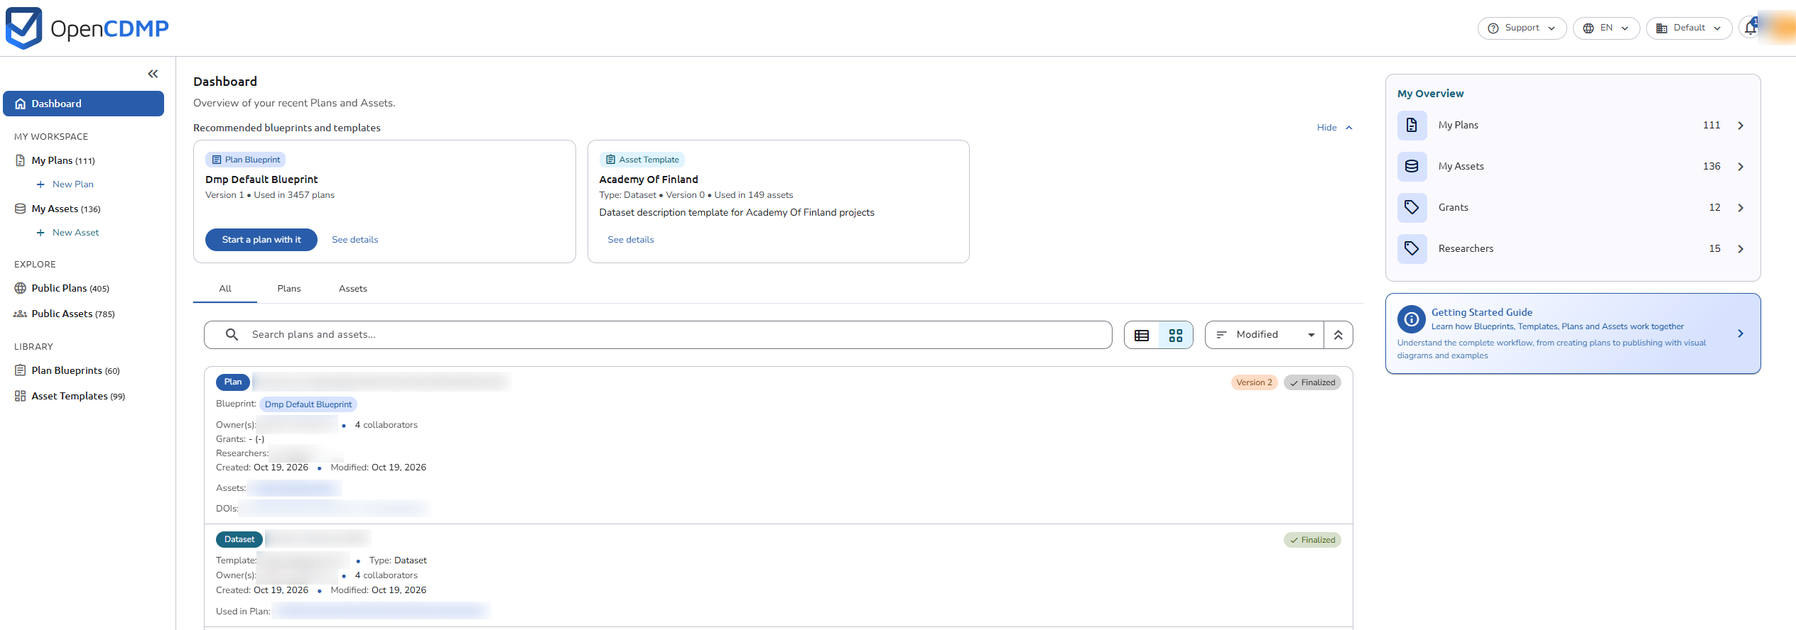
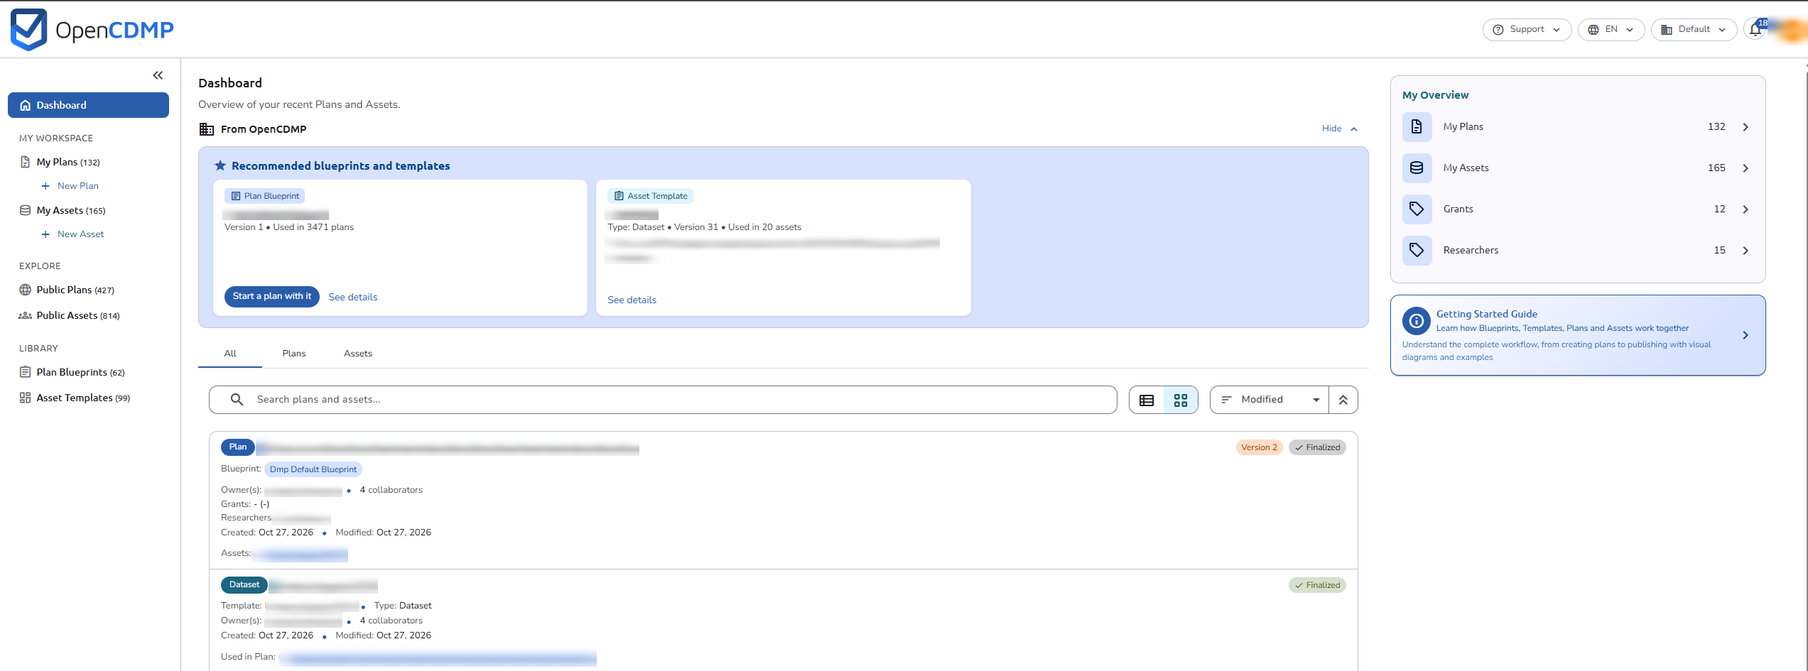
release 2.0.2
The 2.0.2 patch releases, reference-type keys in the deposit and file
transformer semantics, organisation slides, and the Dataverse dataset type.

diff --git a/docs/administering/tenant-management/users-and-onboarding.md b/docs/administering/tenant-management/users-and-onboarding.md
@@ -1,10 +1,10 @@
 ---
-description: The terms and conditions users accept, and the guided tours they see, when they first use the organisation
+description: The slides on members' Dashboard, the terms and conditions users accept, and the guided tours they see when they first use the organisation
 ---
 
 # Users & onboarding
 
-The **Users & onboarding** page sets what people see when they sign in for the first time.
+The **Users & onboarding** page sets what people see when they first sign in, and the information on their Dashboard.
 
 ## Authorization
 
@@ -13,6 +13,51 @@ Open to the **System Administrator** and **Organisation Admin** roles. See [Role
 ## Navigation
 
 Switch the sidebar to the **Admin** view, choose **Settings** under **Organisation**, then **Users & onboarding** in the **Communication** group. See [Organisation settings](/docs/administering/tenant-management/tenant-configuration.md).
+
+## Information on the Dashboard {#information-on-the-dashboard}
+
+The slides every member of the organisation sees at the top of their [Dashboard](/docs/using/home.md#recommended), one at a time. Changes on this card are saved at once, without the save bar of the other settings.
+
+Without slides of its own, the organisation's members see the Default organisation's slides, all of them and never mixed with yours. The empty card says so, except in the Default organisation itself. Deleting your last slide returns to the Default organisation's slides.
+
+### Adding a slide
+
+**Add slide** offers two kinds:
+
+- **Content slide**: your own title and text, with an image and a button if you want them. It opens the **Edit slide** panel.
+- **Recommended blueprints and templates**: the blueprints and asset templates chosen under [Featured blueprints and asset templates](/docs/administering/tenant-management/content-defaults.md#featured-blueprints-and-asset-templates). It is added to the list at once, and an organisation can have only one, so the choice reads **Already added** once it exists.
+
+A new slide is shown on the Dashboard as soon as it is saved, unless its **Show from** date is still to come.
+
+### The list of slides
+
+Each row shows the slide, its languages, when it is shown, and its **On the Dashboard** switch:
+
+- **When** reads **Always**, **From** or **Until** a date, or **Ended** and the date once the **Show until** date has passed. A slide that has ended is not shown to members and stays in the list until you delete it.
+- **On the Dashboard** shows or hides a slide without deleting it.
+- Drag a slide, or use **Move up** and **Move down** in its menu, to change the order on the Dashboard. The recommended slide is moved like any other.
+- On a content slide, **Edit** opens the **Edit slide** panel, and the menu offers **Duplicate** and **Delete**. A duplicate starts with the same texts, image, button, and dates.
+- On the recommended slide, the row says how many items it shows, for example *7 items from Content defaults · 3 slides on the Dashboard*, since every three items make one slide. **Change items** opens Content defaults. With no featured items the row reads *No items chosen yet in Content defaults*, and the slide is not shown.
+
+### The Edit slide panel
+
+At the top, **How the slide looks** previews the slide in the language whose tab is open, cut where the Dashboard cuts long texts.
+
+**Text in each language** holds what is translated, with one tab per language:
+
+- **Title**, **Text** (with the rich-text editor of Help pages & legal), and the **Button text** when the slide has a button.
+- The organisation's default language, set under [Language & region](/docs/administering/tenant-management/language-and-region.md), comes first and is required. **Add language** adds a tab for another language, and **Remove** drops it again. Members whose language has no text see the default language's text.
+- The slide shows the first lines of the text. A longer text gets **Read more** on the Dashboard, which opens the whole slide in a window.
+
+**For all languages** holds what is the same in every language:
+
+- **Image**: shown on the right of the text. Without an image, the text takes the whole width. Images are not shown on narrow screens. Under the image, **Fill** covers the whole area and may crop the image, and **Fit** shows the whole image, which suits a logo.
+- **Button**: **URL** opens a web page in a new tab, and **Email** starts an email to the address you enter. Select the chosen kind again to remove the button.
+- **Show from** and **Show until**: optional dates for news or events. The slide appears and disappears by itself, counting whole days.
+
+### Hiding the slides
+
+Members can fold the section with **Hide**, and their choice is kept in their own settings. The section opens again for them when a slide is added, or when the text, image, or button of a slide changes. Reordering slides, switching them on or off, and changing their dates do not open it again.
 
 ## Terms and conditions
 
@@ -48,4 +93,6 @@ Which tours a user has already seen is stored in that user's own settings, per o
 ## See also
 
 - [Organisation settings](/docs/administering/tenant-management/tenant-configuration.md) - The settings hub, and how settings are saved
+- [Dashboard](/docs/using/home.md#recommended) - The slides as members see them
+- [Content defaults](/docs/administering/tenant-management/content-defaults.md#featured-blueprints-and-asset-templates) - The items of the recommended slide
 - [Profile settings](/docs/using/profile-settings.md#guided-tours) - Guided tours as users see them

diff --git a/docs/optional-services/deposit-services/zenodo-semantics.md b/docs/optional-services/deposit-services/zenodo-semantics.md
@@ -10,7 +10,9 @@ The [Zenodo deposit plugin](https://hub.docker.com/r/opencdmp/repository-deposit
 
 ## How the plugin resolves fields
 
-Every semantic on this page works on plan blueprint inputs and on asset template inputs alike. The two exceptions are the contributor name and license link semantics, which go on fields of a reference type (see [License](#license) and [Contributors](#contributors)).
+Every semantic on this page works on plan blueprint inputs and on asset template inputs alike. The two exceptions are the contributor name and license link semantics, which go on a reference type (see [License](#license) and [Contributors](#contributors)).
+
+A **Reference Types** input can also take semantics from its [reference type](/docs/administering/content-management/templates/semantics.md#keys-from-reference-types): when the type gives a semantic to the reference's ID, name, description, or one of its fields, each chosen reference gives that value, even though the input itself does not carry the semantic.
 
 The plugin reads the blueprint's answers first, then the answers of each of the plan's assets:
 
@@ -28,7 +30,7 @@ The plugin reads the blueprint's answers first, then the answers of each of the 
 | **Dataset Identifier**, **Validator** | The identifier. |
 | **Tags** | Each tag as a separate value. For an additional title or a related identifier, the tags are joined with `, `. |
 | **Select**, **Radio Box** | The value of each chosen option, or its label when the option has no value. Semantics with fixed values, such as the additional title type, match on this value. |
-| **Reference Types** | The identifier of each chosen reference, not its label. |
+| **Reference Types** | The identifier of each chosen reference, not its label. For a semantic the input takes from its reference type, the part of each reference that carries it. |
 
 **Upload**, **Internal Plans**, and **Internal Assets** inputs and the blueprint's system fields (such as the plan's title or description) are not read, even when they carry a semantic.
 
@@ -95,7 +97,7 @@ Put the three semantics on inputs of the same field set, in a blueprint or an as
 
 Each answer of an input that carries one of these semantics, in a blueprint or an asset template, becomes one `metadata.related_identifiers[]` entry. The relation type is the last part of the semantic, in lowercase. To set the scheme, add one of the [scheme semantics](#related-identifier-scheme-semantics) to the same input; without one, the scheme is `other`. Empty answers are skipped.
 
-On a **Reference Types** input, the identifier is the reference's identifier. When the reference has a `pid` field and a `pidTypeField` field with an accepted PID type (such as `doi`, `handle`, `orcid`, or `ROR`), its PID is sent instead. References of the organisation and researcher reference types always send their identifier. An answer with several references still gives one related identifier.
+On a **Reference Types** input, the identifier is the reference's identifier. When the reference has a `pid` field and a `pidTypeField` field with an accepted PID type (such as `doi`, `handle`, `orcid`, or `ROR`), its PID is sent instead. References of the organisation and researcher reference types always send their identifier. An answer with several references still gives one related identifier. A **Reference Types** input that takes the related identifier semantic from its reference type instead gives one related identifier per chosen reference; its scheme comes from a scheme semantic the reference type carries, when the input has none.
 
 | Relation type | Semantic |
 |---|---|
@@ -214,7 +216,7 @@ Each answer of an input that carries one of these semantics becomes one `metadat
 
 Licenses come from the plan's license references, of the reference type set in the organisation's **Licences** setting. The plugin looks up each reference's identifier in Zenodo's license vocabulary and sends a match as `metadata.rights[].id`. When the lookup fails, it sends a custom license instead, with the reference's identifier as the title, its description as the description, and the link below. A plan without license references gets the organisation's **Default licence** setting, if set.
 
-The only semantic goes on a field of the license reference type, not on a blueprint or template input:
+The only semantic goes on the license reference type, on one of its fields or on its reference ID, name, or description, not on a blueprint or template input:
 
 | Zenodo field | Semantic | Notes |
 |---|---|---|
@@ -224,7 +226,7 @@ The only semantic goes on a field of the license reference type, not on a bluepr
 
 The plan's researcher references, of the reference type set in the organisation's **Researchers** setting, become `metadata.contributors[]` with the role `researcher` and the reference's label as the name. A researcher from ORCID also gets the ORCID iD as an identifier. No affiliation is sent.
 
-Two semantics on fields of the researcher reference type set the name parts:
+Two semantics on the researcher reference type, on its fields or on its reference ID, name, or description, set the name parts:
 
 | Zenodo field | Semantic | Notes |
 |---|---|---|

diff --git a/docs/using/home.md b/docs/using/home.md
@@ -1,13 +1,13 @@
 ---
 sidebar_position: 2
-description: The first page after you log in, with the recommended blueprints and templates, your recent plans and assets, usage counts, navigation, guided tours, the Support menu, notifications, and the organisation switcher
+description: The first page after you log in, with your organisation's slides, your recent plans and assets, usage counts, navigation, guided tours, the Support menu, notifications, and the organisation switcher
 ---
 
 # Dashboard
 
 When you log in, the **Dashboard** is the first page to appear. It gives an overview of your recent [Plans](/docs/using/plans/index.md) and [Assets](/docs/using/assets/index.md), along with usage counts and a guide to help you get started.
 
-![Dashboard with the recommended blueprints and templates, the All tab of recent activity, and the My Overview card](/images/home/home-page.png)
+![Dashboard with the organisation's slides showing the recommended blueprints and templates, the All tab of recent activity, and the My Overview card](/images/home/home-page.png)
 *Dashboard*
 
 ## Navigation
@@ -26,16 +26,23 @@ Users with administrator permissions see a **Switch view** toggle at the top of 
 
 The **top navigation bar** holds the logo, a **Support** menu, the language selector, the [organisation button](#switch-organisation), the [notifications bell](#notifications), and your user avatar (or the **Log in** button).
 
-## Recommended blueprints and templates {#recommended}
+## Slides from your organisation {#recommended}
 
-When the organisation features blueprints or asset templates, a **Recommended blueprints and templates** panel appears above the activity tabs. Outside the default organisation, its heading reads **From** followed by the organisation's name.
+Above the activity tabs, a section headed **From** and your organisation's name shows the slides your organisation's administrators prepared, one at a time. When your organisation has no slides of its own, you see the Default organisation's slides, and the heading reads **From** and the platform name. When there is nothing to show, the section does not appear.
 
-The panel shows three cards at a time: the featured blueprints first, then the featured asset templates, in the order the organisation set. Page through them with the arrow buttons; the count next to **Hide**, for example *1–3 of 6*, shows which ones are on screen. Each card shows whether it is a **Plan Blueprint** or an **Asset Template**, its name, its type when it has one, its version, how many plans or assets use it, and the start of its description.
+- Move between slides with the arrow buttons or the dots below them. The count next to **Hide**, for example *2 of 4*, shows which slide is on screen. Slides change only when you select an arrow or a dot.
+- **Hide** folds the section into one line with the number of slides, and **Show** opens it again. The choice is saved for your account. The section opens again by itself when the administrators add a slide or change the text, image, or button of one.
+
+A slide is one of two kinds.
+
+**Content slides** have a title and a text, an optional image on the right, and an optional button. The button opens a web page in a new tab or starts an email to the address the organisation set. The texts appear in your language when the organisation wrote them in it, and otherwise in the organisation's default language. When a text is longer than the slide, **Read more** opens the whole slide in a window.
+
+**Recommended blueprints and templates** shows the blueprints and asset templates your organisation features, blueprints first, in the order the organisation set. A slide holds up to three cards and fewer on a narrow screen, so several items take several slides in a row. Each card shows whether it is a **Plan Blueprint** or an **Asset Template**, its name, its type when it has one, its version, how many plans or assets use it, and the start of its description.
 
 - **Start a plan with it**, on blueprint cards, opens the new plan wizard with that blueprint already selected.
 - **See details** opens the blueprint or template in the [Library](#library).
 
-**Hide** collapses the panel to its heading, and **Show** opens it again. The panel is open again the next time you visit the Dashboard. Administrators choose what appears here under [Featured blueprints and asset templates](/docs/administering/tenant-management/content-defaults.md#featured-blueprints-and-asset-templates).
+Administrators manage the slides under [Information on the Dashboard](/docs/administering/tenant-management/users-and-onboarding.md#information-on-the-dashboard), and choose the recommended items under [Featured blueprints and asset templates](/docs/administering/tenant-management/content-defaults.md#featured-blueprints-and-asset-templates).
 
 ## Recent activity
 

diff --git a/docs/optional-services/deposit-services/dataverse-semantics.md b/docs/optional-services/deposit-services/dataverse-semantics.md
@@ -18,7 +18,7 @@ The value a field gives depends on its type:
 - Single and multiple choice fields give the label of each chosen option.
 - Date fields give the date as `yyyy-MM-dd`.
 - Number, Yes / No, and tick box fields give the value as text (`true` or `false` for the last two).
-- Reference fields give the identifier of each chosen reference, not its name.
+- Reference fields give the identifier of each chosen reference, not its name. A reference field without the semantic still answers it when its [reference type](/docs/administering/content-management/templates/semantics.md#keys-from-reference-types) gives the semantic to the reference's ID, name, description, or one of its fields: each chosen reference then gives that value. A reference field that answers an author, contact, keyword, or other identifier semantic this way gives one entry per chosen reference, wherever the field sits in the blueprint or template.
 - Dataset identifier fields give the identifier.
 - Other field types, such as file uploads, preset fields, and links to plans or assets, give nothing.
 
@@ -31,6 +31,7 @@ Subjects, contributor types, and publication identifier and relation types are c
 | Purpose | Semantic | Notes |
 |---|---|---|
 | Target dataverse collection | `dataverse.identifier` | The alias of the dataverse collection the dataset is created in. First value only. Falls back to the organisation's **Dataverse collection** [setting](/docs/optional-services/deposit-services/index.md#organisation-settings), then to the installation's collection. A new version of an already published plan updates the existing dataset, so this value only matters for the first deposit. It is not written into the dataset metadata. |
+| Dataset type | `dataverse.dataset.type` | The [dataset type](https://guides.dataverse.org/en/latest/user/dataset-management.html#dataset-types) the dataset is created with, by its name in the Dataverse instance, for example `software` or `outputmanagementplan`. The first value that the target collection allows is used. Falls back to the installation's dataset type (`DEPOSIT_DATAVERSE_DATASET_TYPE`) when the collection allows it; otherwise no type is sent and Dataverse creates a `dataset`. A collection allows the types a Dataverse superuser lists in its `allowedDatasetTypes` attribute, and only `dataset` when it lists none. When the collection allows more than one type, users can pick another in the review. Dataverse sets the type only when the dataset is created, so a new version keeps it. |
 
 ## Values that are always set (not semantic-driven)
 
@@ -184,7 +185,7 @@ Blueprint **or** asset template, on the inputs of one question. Use any of these
 
 ### Reference type semantics
 
-`dataverse.related_publication.identifier` and `dataverse.related_publication.identifier_type` also work on the fields of a [reference type](/docs/administering/system-configuration/reference-types.md#fields). Every reference of that type chosen in a plan or asset reference field adds one related publication entry: the value of the field with `identifier` becomes the `publicationIDNumber`, and the value of the field with `identifier_type` becomes the `publicationIDType` when it is one of the instance's identifier types.
+Every `dataverse.related_publication.*` semantic also works on a [reference type](/docs/administering/content-management/templates/semantics.md#keys-from-reference-types): on its fields, or on its reference ID, name, and description. Every reference of that type chosen in a plan or asset reference field adds one related publication entry, with each value taken from the part of the reference that carries the semantic. For example, the reference ID with `identifier` becomes the `publicationIDNumber`, and the name with `citation` becomes the `publicationCitation`. The identifier type and relation type are kept only when they are values of the instance's vocabularies.
 
 ## Citation — `keyword` (compound, question) {#citation--keyword-compound-field-set--asset-template-only}
 
@@ -219,7 +220,7 @@ Every semantic works on both plan blueprint and asset template fields.
 | `dataverse.publication.relation_type.*` | The same field as a `dataverse.publication.type.*` semantic |
 | `dataverse.author.*` | The inputs of one question |
 | `dataverse.point_of_contact.*` | The inputs of one question |
-| `dataverse.related_publication.*` | The inputs of one question; `identifier` and `identifier_type` also on reference type fields |
+| `dataverse.related_publication.*` | The inputs of one question; also on a reference type |
 | `dataverse.keyword.*` | The inputs of one question |
 | `dataverse.other_identifier.*` | The inputs of one question |
 

diff --git a/docs/deployment/install/changelog.md b/docs/deployment/install/changelog.md
@@ -22,20 +22,20 @@ The Notification Service and Annotation Service are closed-source components dis
 
 | Service | Version | Released |
 |---|---|---|
-| API Service | 2.0.1 | 2026-10-23 |
-| Webapp | 2.0.1 | 2026-10-23 |
-| File Transformer — Docx | 2.0.0 | 2026-10-13 |
-| File Transformer — RDA maDMP | 2.0.0 | 2026-10-13 |
-| File Transformer — RAiD | 2.0.0 | 2026-10-13 |
-| Deposit Service — Zenodo | 2.0.1 | 2026-10-23 |
-| Deposit Service — DSpace | 2.0.1 | 2026-10-23 |
-| Deposit Service — CKAN | 2.0.1 | 2026-10-23 |
-| Deposit Service — Dataverse | 2.0.1 | 2026-10-23 |
-| Deposit Service — Fedora | 2.0.1 | 2026-10-23 |
-| Evaluator — RDA maDMP | 2.0.0 | 2026-10-13 |
-| Evaluator — OSTrails DMP Evaluation Service | 2.0.1 | 2026-10-23 |
-| Evaluator — OpenAIRE FAIR | 2.0.0 | 2026-10-13 |
-| RDA maDMP API | 2.0.0 | 2026-10-13 |
+| API Service | 2.0.2 | 2026-11-03 |
+| Webapp | 2.0.2 | 2026-11-03 |
+| File Transformer — Docx | 2.0.1 | 2026-11-03 |
+| File Transformer — RDA maDMP | 2.0.1 | 2026-11-03 |
+| File Transformer — RAiD | 2.0.1 | 2026-11-03 |
+| Deposit Service — Zenodo | 2.0.2 | 2026-11-03 |
+| Deposit Service — DSpace | 2.0.2 | 2026-11-03 |
+| Deposit Service — CKAN | 2.0.2 | 2026-11-03 |
+| Deposit Service — Dataverse | 2.0.2 | 2026-11-03 |
+| Deposit Service — Fedora | 2.0.2 | 2026-11-03 |
+| Evaluator — RDA maDMP | 2.0.1 | 2026-11-03 |
+| Evaluator — OSTrails DMP Evaluation Service | 2.0.2 | 2026-11-03 |
+| Evaluator — OpenAIRE FAIR | 2.0.1 | 2026-11-03 |
+| RDA maDMP API | 2.0.1 | 2026-11-03 |
 | Notification Service | 0.0.23 | — |
 | Annotation Service | 0.0.25 | — |
 
@@ -47,6 +47,12 @@ The Notification Service and Annotation Service are closed-source components dis
 | repository-deposit-base 2.0.1 | 2026-10-23 | Optional `POST /api/deposit/account` endpoint that names the account a deposit used |
 | Deposit services 2.0.1 | 2026-10-23 | Values are checked before sending and the repository's validation errors are shown; the account a deposit used is reported; Zenodo receives its token in a header; the DSpace review follows the collection's submission form |
 | OSTrails evaluator 2.0.1 | 2026-10-23 | Reads the test list in the service's current format |
+| API and Webapp 2.0.2 | 2026-11-03 | Organisation slides at the top of the Dashboard, with a Fill or Fit choice for each image; semantics on a reference type's id, name and description; conditional rules between inputs of the same question; template check issues shown on finalized blueprints and asset templates; input labels as placeholders in the plan and asset forms; fixes for "First value only" on JSONPath filter paths and templated fields with a missing placeholder; the plan touch maintenance task releases its database session between batches |
+| common-models 2.0.1, file-transformer-base 2.0.1, evaluator-base 2.0.1, repository-deposit-base 2.0.2 | 2026-11-03 | Semantics for a reference type's id, name and description; the base libraries build on common-models 2.0.1 |
+| File transformers 2.0.1 | 2026-11-03 | RDA JSON and RAiD export and import a picked reference's id, name or fields through its reference type's semantics; export and import requests are audited by id and file name instead of their full payload |
+| Deposit services 2.0.2 | 2026-11-03 | Keys are read through the reference type of a picked reference; the images run on `eclipse-temurin:21-jre-noble` instead of Alpine, where outgoing HTTPS calls failed; DSpace reports the repository's errors and checks that the previous item can be versioned; Dataverse creates datasets with a dataset type |
+| Evaluators 2.0.1 / OSTrails 2.0.2 | 2026-11-03 | Evaluation requests are audited by plan or asset id instead of the full model |
+| RDA maDMP API 2.0.1 | 2026-11-03 | Builds on common-models 2.0.1 |
 
 ### Highlights
 

diff --git a/docs/optional-services/file-transformers/rda-json-semantics.md b/docs/optional-services/file-transformers/rda-json-semantics.md
@@ -31,6 +31,19 @@ Grouped RDA structures (`dmp.project.funding`, `dmp.dataset.distribution`, `dmp.
 
 [Answer options that stand for key values](/docs/administering/content-management/templates/semantics.md#answer-options-that-stand-for-key-values) are read as if inputs with those keys had been answered; an input answered explicitly wins over the option. An option marked **Exports nothing** leaves the object out.
 
+### Picked references {#picked-references}
+
+A reference input can carry keys itself, take them from its [reference type](/docs/administering/content-management/templates/semantics.md#keys-from-reference-types), or both. A key the input carries takes the picked reference's ID; a key the type gives its Reference ID, Name, Description, or a field takes that value of the picked reference.
+
+In the lists of RDA (affiliations of the plan, the contact, contributors, and creators; creators; contributors; project fundings; metadata standards; technical resources; alternate and related identifiers of the plan and of datasets), each picked reference makes one entry, and the answer's other values are copied into each:
+
+- Two organisations picked for a creator's affiliation give two affiliations.
+- Reference inputs that fill the same keys are alternatives, so each of their picks is its own entry.
+- Reference inputs that fill different keys complete each other: one funder and two grants picked in one project answer give two fundings, each with the funder.
+- Entries nested in another (a creator's affiliations, a project's fundings) belong to the answer of that entry.
+
+Distributions, hosts, and licences are filled from picked references as described in [Distributions](#distributions).
+
 ### Example: a distribution from a few plain questions
 
 A "Data sharing" section described as `rda.dataset.distribution` contains:
@@ -393,6 +406,7 @@ The transformer also imports RDA maDMP JSON files into a plan, using the same se
 - When a dataset has no distribution, an option marked **Exports nothing** on a distribution question is selected.
 - A `data_access` of `shared` or `restricted` selects whichever of the two options the input offers.
 - A question that takes a single answer keeps the first matching object; for example, a non-repeating project question keeps the first of two projects.
+- [Picked references](#picked-references) are rebuilt from the file: the reference ID from the input's own key, else from the type's Reference ID key, and the name, description, and fields from the type's other keys, the name falling back to the ID. OpenCDMP links each to an existing reference of the type with the same ID, or adds it as a new reference. Each entry of a list gets its own answer. A multiple-select input takes all entries in one answer when the question takes a single answer or has nothing else to fill them with. Entries nested in another become the picks of that entry's answer, for example the affiliations of each creator or the funder and grants of each project.
 - `dmp_id` is written back to the inputs carrying the `rda.dmp.dmp_id` semantics, unless it is a UUID typed `other`, which is the id OpenCDMP exports for a plan without a DOI. An imported plan is a new plan and gets its own id.
 
 Some values are not read back on import. The editors mark those keys, using the plugin's [semantics manifest](#semantics-manifest).

diff --git a/docs/administering/content-management/templates/semantics.md b/docs/administering/content-management/templates/semantics.md
@@ -51,6 +51,19 @@ Keys are always stored in full. Under an object, the editor may show a key short
 The same object on two sections or questions is allowed: the export merges them. The import cannot tell them apart, so it fills only the first one.
 :::
 
+## Keys from reference types {#keys-from-reference-types}
+
+A reference input can take its keys from its [reference type](/docs/administering/system-configuration/reference-types.md#fields) instead of carrying them itself. In the type's **Fields** tab, expand the built-in row to set **Reference ID semantics**, **Name semantics**, and **Description semantics**, and expand any other field to set its **Semantics**. A picked reference then supplies each key with its ID, name, description, or the value of that field.
+
+For example, an `organisations` type whose Reference ID semantics is `rda.dataset.creator.affiliation.affiliation_id.identifier` and whose Name semantics is `rda.dataset.creator.affiliation.name` makes every organisation picked in a creator question an affiliation of that creator, with its ROR id and name, without any key on the input.
+
+- **A key on the input wins.** A key the input carries itself takes the picked reference's ID, as before; the type's keys add the other values.
+- **One object per picked reference.** Two organisations picked in one answer give two affiliations, and the answer's other values are copied into each.
+- **Alternatives and complements.** Reference inputs of one answer that fill the same keys are alternatives: each of their picks is an object of its own. Inputs that fill different keys complete each other: a funder and two grants picked in one project answer give two fundings, each with the funder.
+- **Import.** A transformer that imports the object rebuilds the picked references from the file, with the ID, name, description, and fields its type's keys give. OpenCDMP links each one to an existing reference of the type with the same ID, or adds it as a new reference.
+
+The [RDA maDMP JSON](/docs/optional-services/file-transformers/rda-json-semantics.md#picked-references) and [RAiD JSON](/docs/optional-services/file-transformers/raid-json-semantics.md#how-the-transformer-resolves-fields) file transformers and the [Zenodo](/docs/optional-services/deposit-services/zenodo-semantics.md#how-the-plugin-resolves-fields), [Dataverse](/docs/optional-services/deposit-services/dataverse-semantics.md#how-the-plugin-resolves-fields), [DSpace](/docs/optional-services/deposit-services/dspace-semantics.md#how-the-plugin-resolves-fields), [CKAN](/docs/optional-services/deposit-services/ckan-semantics.md#how-the-plugin-resolves-fields), and [Fedora](/docs/optional-services/deposit-services/fedora-semantics.md#how-the-plugin-resolves-fields) deposit services read keys this way. The deposit services take one value per chosen reference; the rules on alternatives, complements, and import apply to the file transformers.
+
 ## Answer options that stand for key values {#answer-options-that-stand-for-key-values}
 
 A select or radio input can let one answer set several keys at once. Each option can carry a list of key/value pairs, for example:

diff --git a/docs/administering/content-management/blueprints/index.md b/docs/administering/content-management/blueprints/index.md
@@ -32,13 +32,15 @@ The three dots in the last column of a blueprint offer these actions:
 - **Download XML**: Download the structure of the blueprint in XML format.
 - **Delete**
 
+[Editors](#editors) of a blueprint who have none of the roles below see only **Edit** (**View** on a `Finalised` blueprint), and **Download XML** on the blueprints they own.
+
 Rows that you cannot edit, which are finalized blueprints and blueprints shared by the default organisation, show an eye icon (**View**) and a clone icon next to the menu. They open read-only.
 
 This listing is organisation-scoped and supports the standard [admin listing](/docs/administering/admin-listings.md) controls: scope tabs, search, filter chips, Show deleted, column picker, and density. See that page for details.
 
 ## Authorization
 
-Open to the **System Administrator**, **Organisation Admin**, and **Template Manager** roles. See [Roles](/docs/administering/how-it-fits-together.md#roles).
+Open to the **System Administrator**, **Organisation Admin**, and **Template Manager** roles. Users added as [editors](#editors) of a blueprint can also open this page, which then lists only the blueprints they edit, and can edit those blueprints. See [Roles](/docs/administering/how-it-fits-together.md#roles).
 
 ## Navigation
 
@@ -65,6 +67,17 @@ The **About this blueprint** card works as described in [Details tab](/docs/admi
 
 - **Type**: The [blueprint type](/docs/administering/content-management/types.md), which groups this blueprint with others of the same kind in the library.<br/>*This is optional.*
 - **Description and use cases**: Shown in the blueprint library and when an author starts a new plan.<br/>*This is optional.*
+
+### Editors {#editors}
+
+**Editors** are the people who can change this blueprint, in addition to administrators. Click **Manage editors** to open the side panel:
+
+- Search people by name or email to add them. New editors join as members and get an email with a link to the blueprint.
+- Use the role button of a person to **Make owner**, **Make member**, or **Remove from blueprint**. Owners and members can both change the blueprint; only owners can also download it as XML.
+
+On a saved blueprint, changes to editors save immediately, even when the blueprint is finalized. On a new blueprint, they are saved with the blueprint when you first save it.
+
+Editors cannot create, import, clone, or delete blueprints, or create a new version, unless one of the roles above lets them.
 
 ### Plan creation consent {#plan-creation-consent}
 

diff --git a/docs/optional-services/file-transformers/raid-json-semantics.md b/docs/optional-services/file-transformers/raid-json-semantics.md
@@ -22,7 +22,8 @@ How an answer is read:
 
 - Text inputs give their text, Yes/No and checkbox inputs `true` or `false`, number inputs the number, and date inputs `yyyy-MM-dd`.
 - Select and radio inputs give the value of the chosen option. To write a RAiD vocabulary value, use it as the option's value and give the option a readable label.
-- Reference inputs give the picked reference's value, for example its ROR or ORCID address.
+- Reference inputs give the picked reference's value, for example its ROR or ORCID address, for a key the input carries. A reference input can also take keys from its [reference type](/docs/administering/content-management/templates/semantics.md#keys-from-reference-types): each such key gives the picked reference's ID, name, description, or the field the type assigns it.
+- In a list, each picked reference produces its own entry, with the answer's other values copied into each: two organisations picked in one answer give two `organisations` entries. Reference inputs that fill the same keys are alternatives; inputs that fill different keys are combined, one pick of each.
 - Tags inputs give their first tag.
 
 ## Values that are always set
@@ -160,6 +161,7 @@ Importing a RAiD JSON file creates a new plan:
 - The plan's title is the file's primary title, or its first title when none is marked primary.
 - The plan is public when `access.type.id` is open access, and restricted otherwise.
 - The `identifier`, `date`, and `access` values are written to the blueprint questions carrying their semantics. The lists are not read back, and no assets are created.
+- A reference input that takes `identifier`, `date`, or `access` keys only through its reference type gets one reference made from the file: its ID from the type's Reference ID key, its name, description, and fields from the type's other keys. OpenCDMP links it to an existing reference of the type with the same ID, or adds it as a new reference.
 
 ## Related
 

diff --git a/docs/administering/content-management/structure-editor.md b/docs/administering/content-management/structure-editor.md
@@ -4,7 +4,7 @@ description: The editor shared by plan blueprints and asset templates, from the 
 
 # The blueprint and template editor
 
-Plan blueprints and asset templates are built in the same editor. [Plan Blueprints](/docs/administering/content-management/blueprints/index.md) and [Asset Templates](/docs/administering/content-management/templates/index.md) cover what is specific to each, such as their required preset fields, the assets a blueprint section collects, and the editors of a template.
+Plan blueprints and asset templates are built in the same editor. [Plan Blueprints](/docs/administering/content-management/blueprints/index.md) and [Asset Templates](/docs/administering/content-management/templates/index.md) cover what is specific to each, such as their required preset fields, the assets a blueprint section collects, and the editors of a blueprint or template.
 
 The editor opens when you create, edit, clone, or create a new version of a blueprint or template. In the examples below, *template* stands for either.
 
@@ -56,7 +56,7 @@ The **Export template** card holds the settings of the export plugins your organ
 
 The **How authors will see it** side card previews the template as authors meet it.
 
-The Details tab of a blueprint also holds the [plan creation consent](/docs/administering/content-management/blueprints/index.md#plan-creation-consent), and that of an asset template its language and its [editors](/docs/administering/content-management/templates/index.md#editors).
+The Details tab of a blueprint also holds its [editors](/docs/administering/content-management/blueprints/index.md#editors) and the [plan creation consent](/docs/administering/content-management/blueprints/index.md#plan-creation-consent), and that of an asset template its language and its [editors](/docs/administering/content-management/templates/index.md#editors).
 
 ---
 

diff --git a/docs/deployment/configuration/backend/deposit.md b/docs/deployment/configuration/backend/deposit.md
@@ -132,6 +132,7 @@ This service publishes to [Dataverse](https://dataverse.org/). Image `opencdmp/r
 | `DEPOSIT_DATAVERSE_ACCESS_TOKEN` | API token of the installation's Dataverse account. Used for deposits under the organisation's account when the organisation sets no **Access token**. | Yes | - | `<dataverse-access-token>` |
 | `DEPOSIT_DATAVERSE_HOST` | Alias of the Dataverse collection that datasets are created in. Used when the organisation sets no **Dataverse collection**. | Yes | - | `opencdmp-plans` |
 | `DEPOSIT_DATAVERSE_DEFAULT_SUBJECT` | Subject of the dataset. Used when the organisation sets no **Default subject**. | No | - | `Other` |
+| `DEPOSIT_DATAVERSE_DATASET_TYPE` | [Dataset type](https://guides.dataverse.org/en/latest/user/dataset-management.html#dataset-types) of new datasets, by its name in the Dataverse instance. Used when the plan sets no type through the `dataverse.dataset.type` semantic that the target collection allows. A type the collection does not allow is not sent. Empty: Dataverse's default type, `dataset`. | No | - | `outputmanagementplan` |
 | `DEPOSIT_DATAVERSE_SPECIFIED_METADATA_LANGUAGE` | Metadata language, for Dataverse installations that require one. Used when the organisation sets no **Metadata language**. | No | - | `en` |
 | `DEPOSIT_DATAVERSE_SUPPORTS_PREVIEW` | Let users review and edit the metadata before depositing. See [Deposit preview and metadata review](/docs/developers/plugins/deposit-preview.md). | No | `true` | `true` |
 | `DEPOSIT_DATAVERSE_USE_SHARED_STORAGE` | See [Shared storage](/docs/deployment/configuration/plugin-services.md#shared-storage). | No | `false` | `true` |

diff --git a/docs/administering/getting-started.md b/docs/administering/getting-started.md
@@ -35,7 +35,7 @@ In **Organisation > Users**, click **Invite users** to invite people by email wi
 3. **Languages & texts**: the languages people can pick, and your own wording for any text of the application. See [Languages](/docs/administering/system-configuration/languages.md).
 4. **Plugins**: which export formats, repositories, and evaluators your users get, and their settings. See [Plugins](/docs/administering/tenant-management/plugins.md).
 5. **Notifications** and **Notification templates**: the channels each notification uses, and its wording. See [Notifications](/docs/administering/tenant-management/notifications.md) and [Notification templates](/docs/administering/system-configuration/notification-templates.md).
-6. **Users & onboarding**: the terms and conditions people accept before first use, and the guided tours. Terms are not inherited from the Default organisation: without your own, nobody is asked to accept any. See [Users & onboarding](/docs/administering/tenant-management/users-and-onboarding.md).
+6. **Users & onboarding**: the slides on members' Dashboard, the terms and conditions people accept before first use, and the guided tours. Terms are not inherited from the Default organisation: without your own, nobody is asked to accept any. See [Users & onboarding](/docs/administering/tenant-management/users-and-onboarding.md).
 7. **Help pages & legal**: the About, FAQ, User Guide, and policy pages, if the built-in texts do not suit you. See [Help pages & legal](/docs/administering/system-configuration/supportive-material.md).
 
 ## 5. Check the reference types
